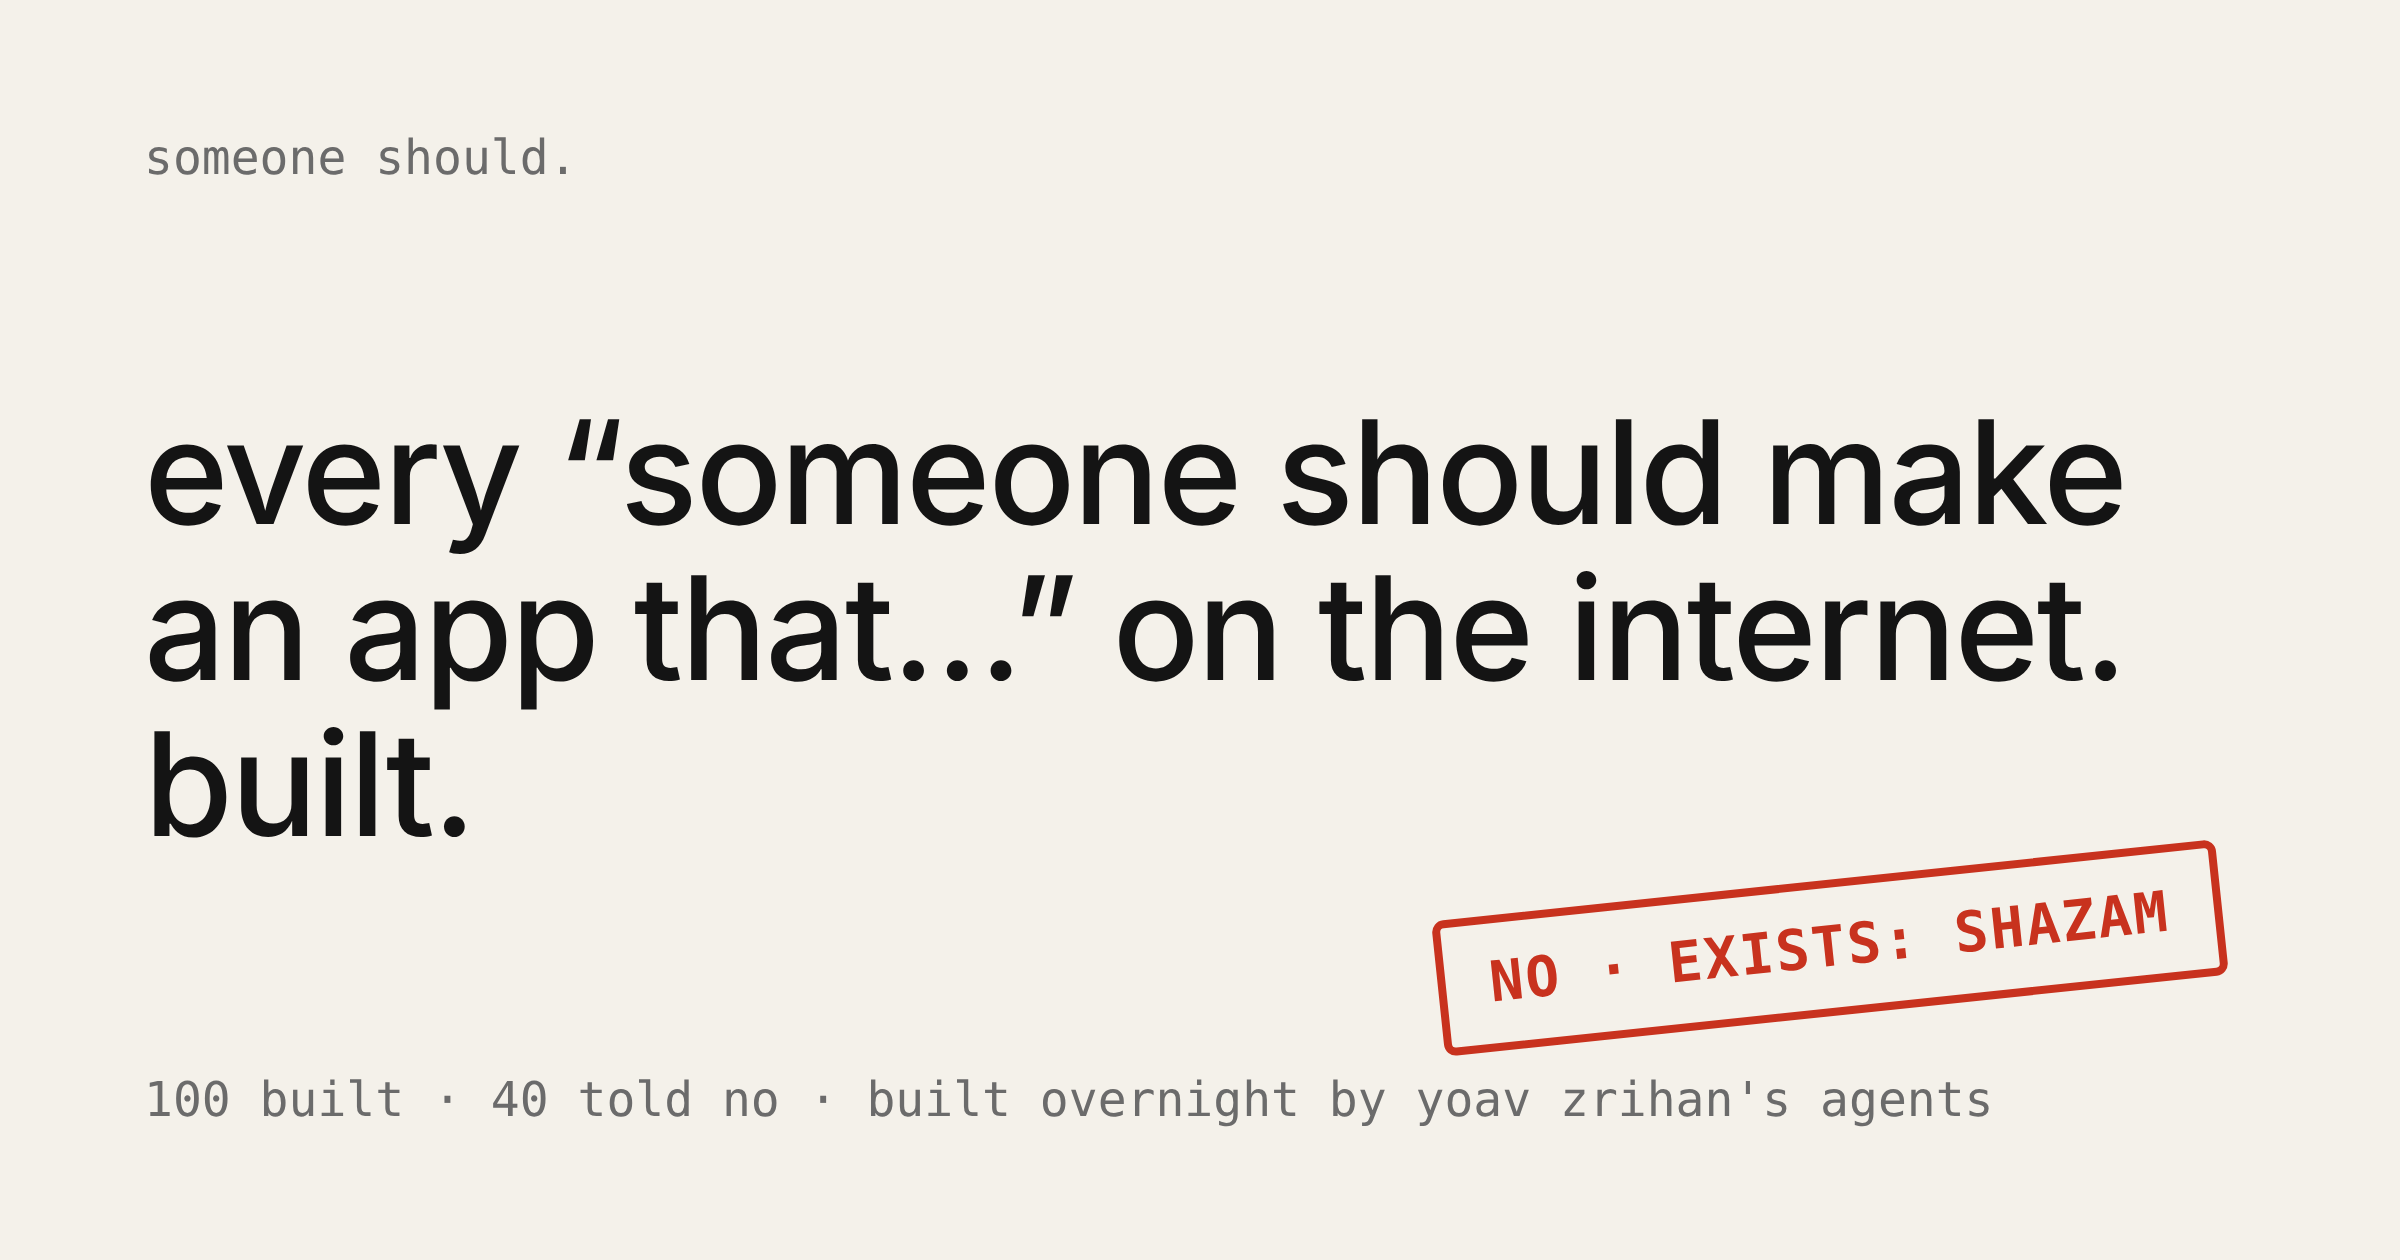
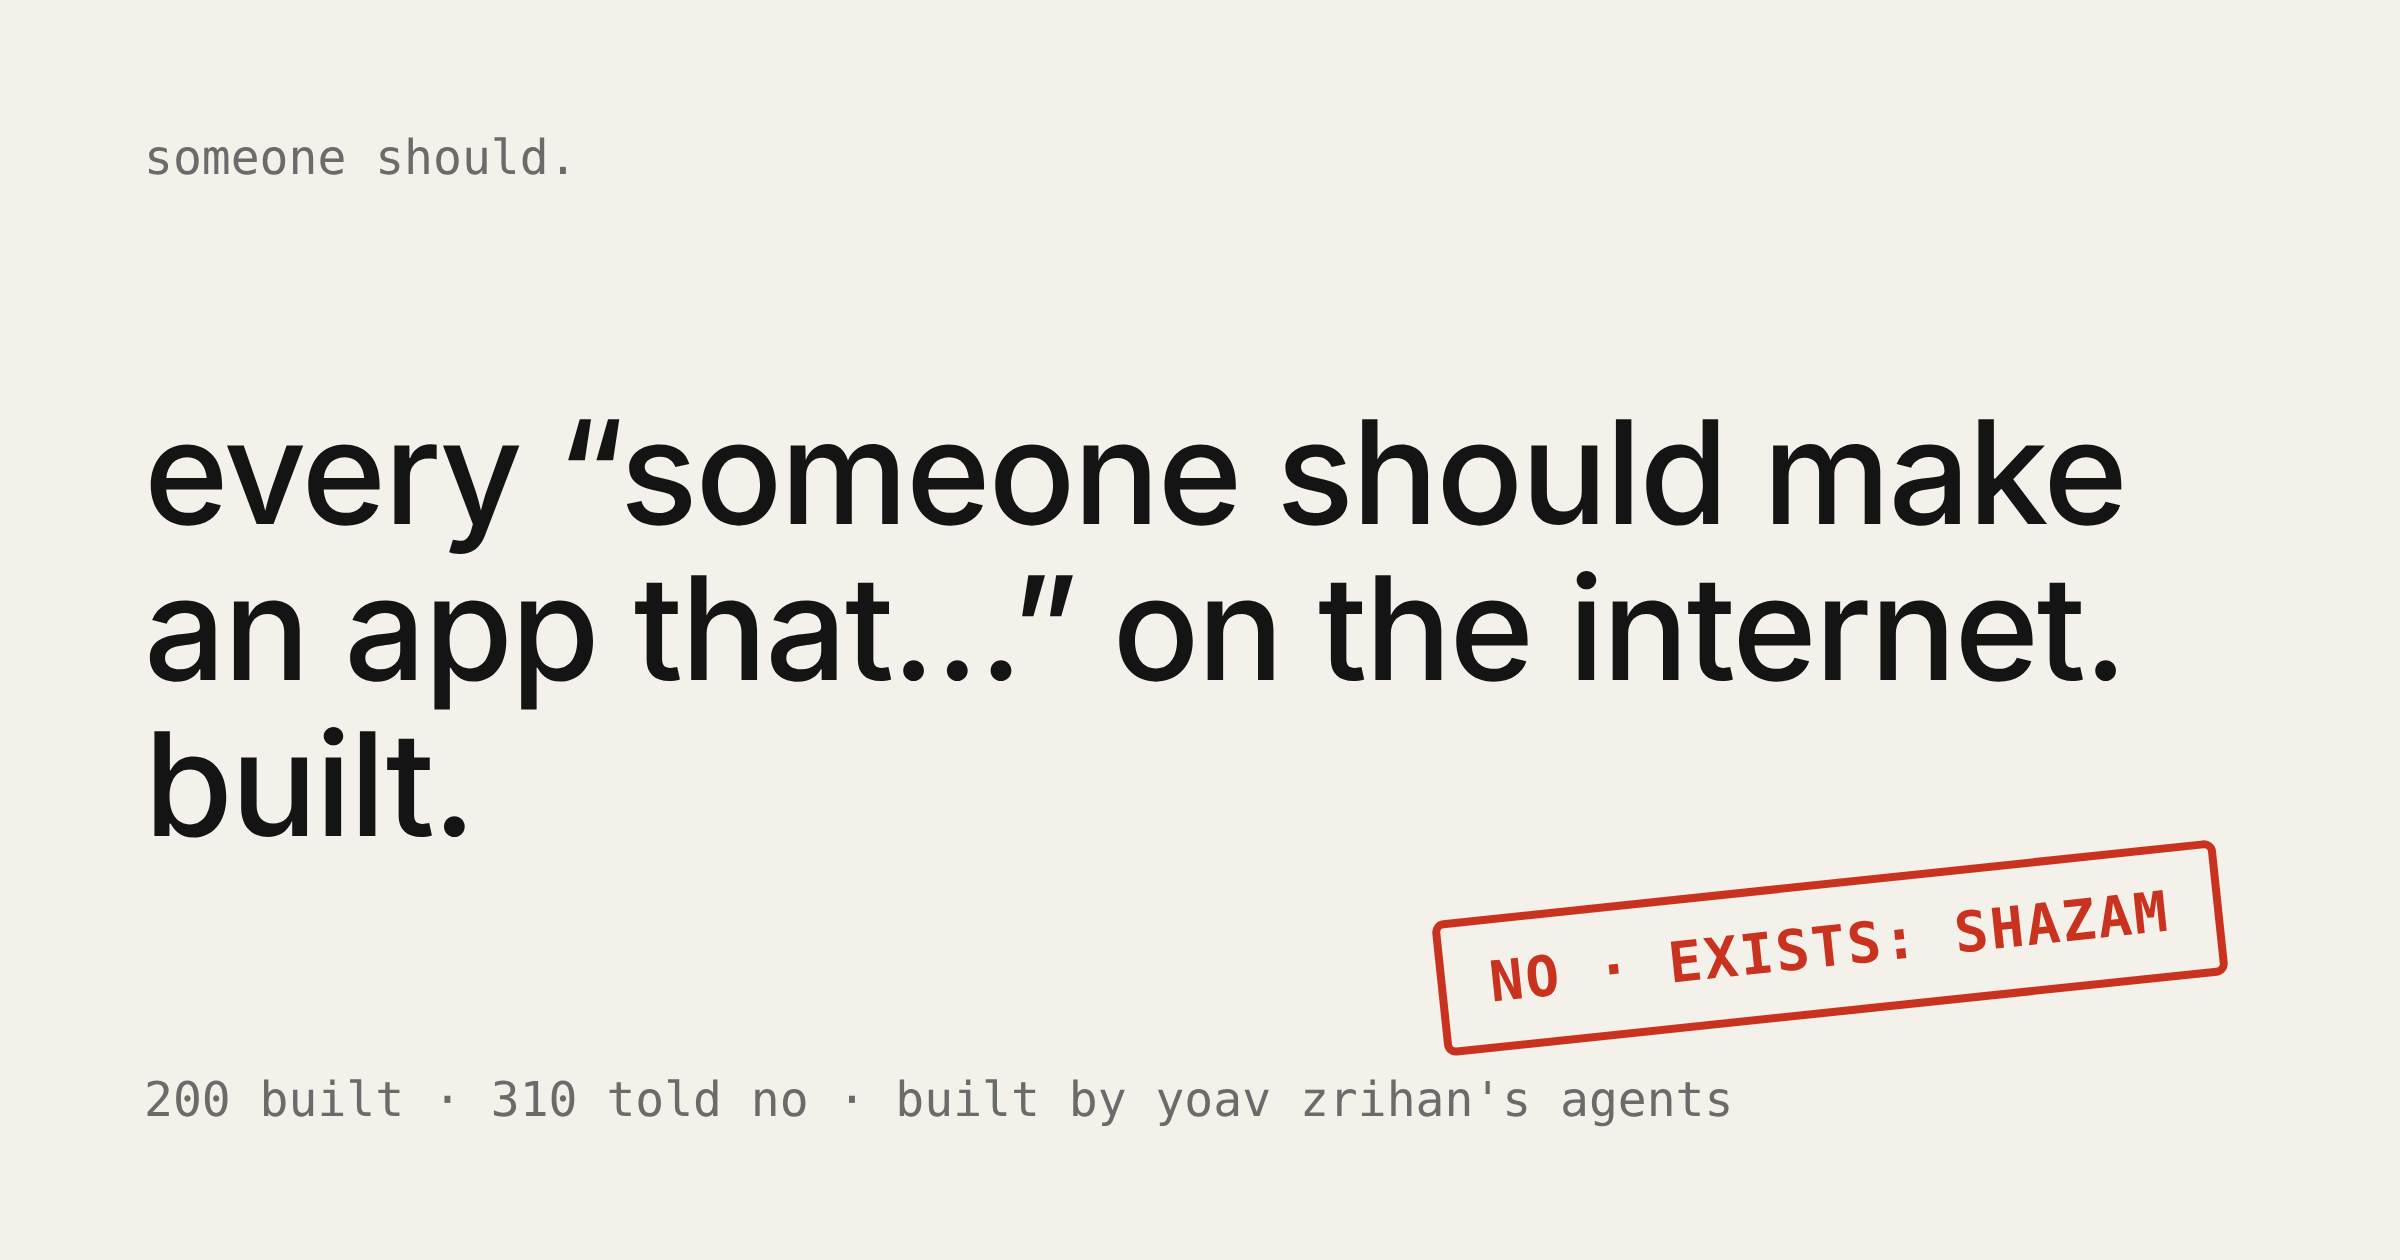
og: 200 built · 310 told no
Claude-Session: https://claude.ai/code/session_01W7ccME5aP3Yxc2oJkv6EZP

Changed region(s): [[0.1875, 0.8357, 0.8438, 0.8976]]

diff --git a/assets/og-source.html b/assets/og-source.html
@@ -7,5 +7,5 @@ h1{font-size:72px;line-height:1.08;letter-spacing:-.015em;font-weight:500;margin
 </style></head><body><div class="w">
 <div class="m">someone should.</div>
 <h1>every “someone should make an app that…” on the internet. built.</h1>
-<div class="m">100 built · 40 told no · built overnight by yoav zrihan's agents</div>
+<div class="m">200 built · 310 told no · built by yoav zrihan's agents</div>
 </div><div class="s">NO · EXISTS: SHAZAM</div></body></html>
